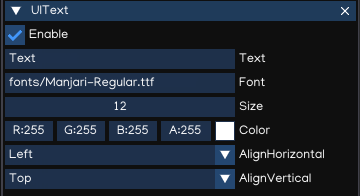
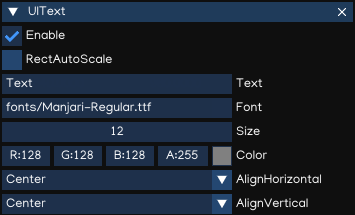
Update: GUI continue (WIP)

diff --git a/docs/source/man_gui.rst b/docs/source/man_gui.rst
@@ -6,8 +6,8 @@ IGE includes is a set of tools for developing user interfaces for games and appl
 Canvas
 ------
 
-The Canvas is a game object with a ``Canvas`` component on it, and all UI elements must be children of a Canvas.
-Creating a new UI element, such as an ``Image`` using the menu ``Create > GUI > UIImage``, automatically creates a Canvas, if there isn't already a Canvas in the scene.
+The Canvas is a game object with a ``Canvas`` component on it. All UI elements must be children of a Canvas.
+Creating a new UI element, such as an ``UIImage`` using the menu ``Create > GUI > UIImage``, automatically creates a Canvas, if there isn't already a Canvas in the scene.
 
 .. figure:: images/man_gui_canvas.png
    :alt: Canvas
@@ -54,11 +54,11 @@ It has position, rotation, and scale just like regular Transforms, but it also h
     AnchorMax                              Upper right anchor handle
     Pivot                                  Pivot position
     Rotation                               Rotation value
-    scale                                  Scale value
+    Scale                                  Scale value
    =====================================  =====================================
 
 .. tip::
-    Use Z position to adjust the drawing order of elements, and may also help to fix Z-fighting issues.
+    Use Z position to adjust the drawing order of elements, and may also help to resolve Z-fighting issues.
 
 Pivot
 +++++
@@ -68,13 +68,13 @@ Rotations, size, and scale modifications occur around the pivot so the position 
 Anchors
 +++++++
 
-If the parent of a ``RectTransform`` is also a ``RectTransform``, the child can be anchored to the parent transform in various ways.
+A child ``RectTransform`` can be anchored to the parent ``RectTransform`` in various ways:
 
 .. figure:: images/man_gui_anchor.png
    :alt: Anchor Preset
 
 .. tip::
-    The blue arrow indicates the child will stretch together with parent size, in horizontal, vertical or both accordingly.
+    The blue arrow indicates that the child will stretch together with parent size, in horizontal, vertical or both accordingly.
 
 UI Components
 -------------
@@ -84,8 +84,83 @@ With the introduction of the UI system, new Components have been added that will
 UIImage
 +++++++
 
+The ``UIImage`` component is used to display an image on screen. 
+
+.. figure:: images/man_gui_image.png
+   :alt: UIImage Component
+
+.. table::
+   :widths: auto
+
+   =====================================  =====================================
+    Property                               Function
+   =====================================  =====================================
+    Path                                   The path to the image file
+    Inteactable                            Ability to receive events using Script
+    Sprite Type                            The Sprite type, can be:
+
+                                           - *Simple*: simple Sprite
+                                           - *Sliced*: 9-slices sprite
+
+    Fill Method                            Allow to fill just part of an image by:
+
+                                           - *Horizontal*
+                                           - *Vertical*
+                                           - *Radial 90*
+                                           - *Radial 180*
+                                           - *Radial 360*
+
+    Fill Origin                            Fill origin, can be:
+    
+                                           - *Left*
+                                           - *Right*
+                                           - *Bottom Left*
+                                           - *Bottom Right*
+                                           - *Top Left*
+                                           - *Top Right*
+
+     Fill Amount                           Amount of filling, from 0.0 to 1.0.
+     Clockwise                             Fill direction, clockwise or counter-clockwise
+     Color                                 Diffuse color
+   =====================================  =====================================
+
 UIMask
 ++++++
+
+An ``UIMask`` is not a visible UI control but rather a way to modify the appearance of a control's child elements.
+The mask restricts the child elements to the shape of the parent.
+So, if the child is larger than the parent then only the part of the child that fits within the parent will be visible.
+
+.. figure:: images/man_gui_mask.png
+   :alt: UIMask Component
+
+.. table::
+   :widths: auto
+
+   =====================================  =====================================
+    Property                               Function
+   =====================================  =====================================
+    Enable                                 Enable/disable mask
+    Fill Method                            Allow to fill just part of an image by:
+
+                                           - *Horizontal*
+                                           - *Vertical*
+                                           - *Radial 90*
+                                           - *Radial 180*
+                                           - *Radial 360*
+
+    Fill Origin                            Fill origin, can be:
+    
+                                           - *Left*
+                                           - *Right*
+                                           - *Bottom Left*
+                                           - *Bottom Right*
+                                           - *Top Left*
+                                           - *Top Right*
+
+     Fill Amount                           Amount of filling, from 0.0 to 1.0.
+     Clockwise                             Fill direction, clockwise or counter-clockwise
+   =====================================  =====================================
 
 UIText
 ++++++
@@ -103,30 +178,153 @@ There are options to set the alignment of the text.
    =====================================  =====================================
     Property                               Function
    =====================================  =====================================
+    RectAutoScale                          Auto resize the Rect Transform with text size
     Text                                   The text to display
-    Font                                   The font to display
+    Font                                   The font to display (.ttf, .otf, .pybm)
     Size                                   The font size
     Color                                  Text color
     AlignHorizontal                        Horizontal alignment
     AlignVertical                          Vertical alignment
    =====================================  =====================================
 
-UITextBitmap
-++++++++++++
-
-The UITextBitmap is similar to UIText, but it is rendered using Bitmap font instead.
-
-To create a Bitmap font from a set of character images, use ``Bitmap Font Creator`` tool access in ``Menu -> Tool -> Bitmap Font Creator``.
+The ``UIText`` support drawing text using true-type font (.ttf, .otf) and bitmap font (.pybm) formats.
+``Bitmap Font Creator`` is used to create bitmap font, which can be found at ``Menu -> Tool -> Bitmap Font Creator``.
 
 .. figure:: images/man_gui_bitmap_font_creator.png
    :alt: Bitmap Font Creator
 
+.. table::
+   :widths: auto
+
+   =====================================  =====================================
+    Property                               Function
+   =====================================  =====================================    
+    Load FontBitmap                        Load the saved bitmap font
+    Save FontBitmap                        Save the bitmap font
+    Image                                  Path to the image file (.pyxi)
+    Characters Set                         Characters set to be generated    
+    Generate Glyphs                        Generate/reset glyphs for input characters set
+    Texture Size                           The image size
+    Font Size                              The font size
+    Font Base Size                         The font base size
+    Index                                  Glyph index
+    Unicode                                Character in Unicode format
+    Position                               Top-left position of the character in the image
+    Size                                   Size of the character
+    Offset                                 Character offset
+    Advance                                Character advance width
+   =====================================  =====================================
+
+To create new bitmap font, flows steps below:
+
+- Accquire bitmap texture file which contains all the characters, copy it to ``fonts`` folder.
+- Open ``Bitmap Font Creator``, select the image file.
+- Input all the characters that is supported in ``Characters Set`` textbox.
+- Generate glyphs by pressing ``Generate Glyphs`` button.
+- For each glyphs, input the position, size, offset and advance value.
+- Save the font by pressing ``Save FontBitmap`` button.
+- Test the font by create ``UITextBitmap`` component, then drag and drop the newly created font in the ``Inspector`` window.
+
+.. note::
+    Bitmap font only displayed as RGB texture if background use alpha channel. Otherwise, it will render as `grayscale` color to resolve alpha issue.
+
+.. tip::
+    Saved Bitmap fonts can be modified with new characters set. Just need to add more character in the ``Characters Set`` textbox, then press ``Generate Glyphs``, it will create new glyphs without affects existing glyphs.
+
+.. tip::
+    Better to use an image editor (such as Paint.NET(R), MS Paint(R), Adobe(R) Photoshop(R)) to mesure the character attributes to put in the glyphs parameters.
 
 UITextField
 +++++++++++
 
+``UITextField`` is used to display an editable text box to the user. The usage of this component is similar to ``UIText``, except it allows text to be input by user.
+
+.. figure:: images/man_gui_textfield.png
+   :alt: UITextField Component
+
+.. table::
+   :widths: auto
+
+   =====================================  =====================================
+    Property                               Function
+   =====================================  =====================================
+    RectAutoScale                          Auto resize the Rect Transform with text size
+    Text                                   The text to display
+    Font                                   The font to display (.ttf, .otf, .pybm)
+    Size                                   The font size
+    Color                                  Text color
+    Background                             Text background color
+    AlignHorizontal                        Horizontal alignment
+    AlignVertical                          Vertical alignment
+   =====================================  =====================================
+
+To handle the input ended event, add this code to ``Script``:
+
+..  code:: python
+
+   from igeScene import Script
+   class TxtUserName(Script):
+      def __init__(self, owner):
+         super().__init__(owner)
+         # Read the value from UITextField
+         self.username = owner.getComponent("UITextField").text
+         print(f"Welcome {self.username}!")
+
+      # Invoked at input ended
+      def onValueChanged(self, val):         
+         self.username = val
+         print(f"Welcome back {self.username}!")
+
 UIButton
 ++++++++
+
+The ``UIButton`` component implement a button in GUI, which responds to a click from the user and is used to initiate or confirm an action.
+
+.. figure:: images/man_gui_button.png
+   :alt: UIButton Component
+
+.. table::
+   :widths: auto
+
+   =====================================  =====================================
+    Property                               Function
+   =====================================  =====================================    
+    Inteactable                            Ability to receive events using Script
+    Transition Mode                        The transition between button states:
+
+                                           - *Color Tint*
+                                           - *Sprite Swap*
+
+    Image                                   Background image
+    Normal                                  Color/texture of the Normal state
+    Pressed                                 Color/texture of the Pressed state
+    Selected                                Color/texture of the Selected state
+    Disabled                                Color/texture of the Disabled state
+    Fade Duration                           Transition Duration
+    Color                                   Diffuse color
+
+    Sprite Type                            The Sprite type, can be:
+
+                                           - *Simple*: simple Sprite
+                                           - *Sliced*: 9-slices sprite
+
+    Border Left                            Border left percentage
+    Border Right                           Border right percentage
+    Border Top                             Border top percentage
+    Border Bottom                          Border bottom percentage
+   =====================================  =====================================
+
+The action can be controlled using ``Script``, which ``onClick`` callback like below:
+
+..  code:: python
+
+   from igeScene import Script
+   class BtnNoAds(Script):
+      def __init__(self, owner):
+         super().__init__(owner)
+
+      def onClick(self):
+         print("NoAds Button Clicked, process purchasing...")
 
 UISlider
 ++++++++

diff --git a/docs/source/man_graphics.rst b/docs/source/man_graphics.rst
@@ -301,7 +301,7 @@ Model can be dragged to the ``Scene View`` to create scene object. Also, it can 
     DoubleSide                             Enable/disable double side rendering
     FFCulling                              Enable/disable front-face culling
     Z-Test                                 Enable/disable depth testing
-    Z-Wtrie                                Enable/disable depth writing
+    Z-Write                                Enable/disable depth writing
     ScissorTest                            Enable/disable scissor test
     Update Ratio                           Updating ratio, used to control animation speed
     Mesh                                   List of meshes included in the model file
